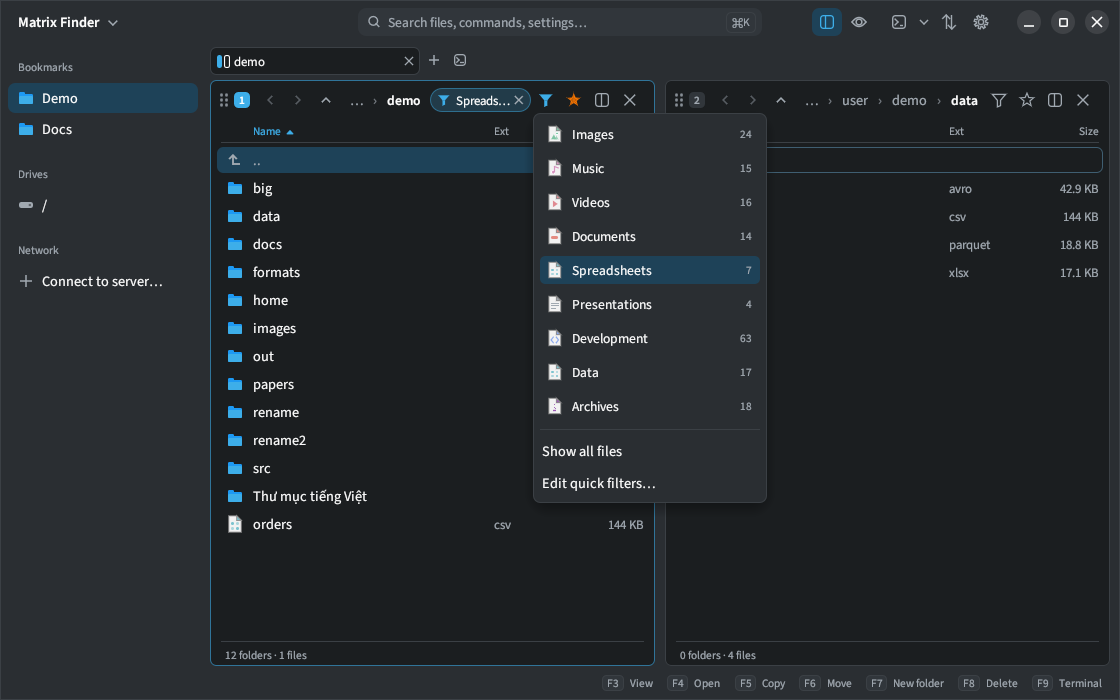
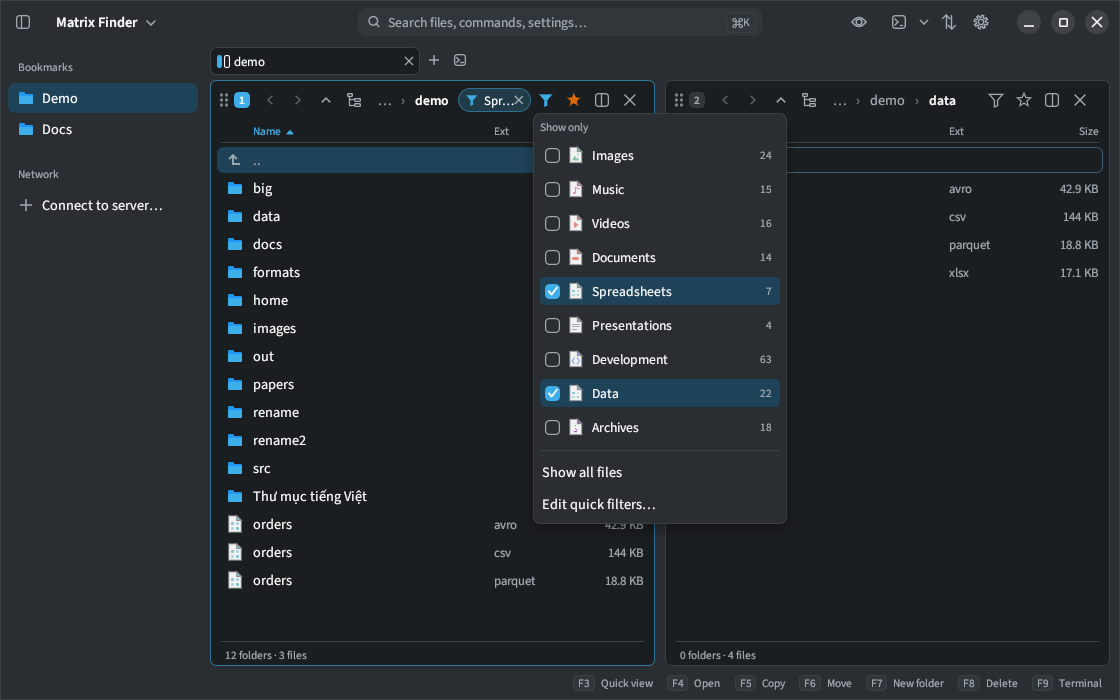
docs(readme): cover the 0.7.0 features and add a privacy section
Drives and eject, folder fields and the folder tree, the Compress
dialog, Tasks, tool tabs, multi-select quick filters, F3 / F4, and a
Privacy section: no data is collected and no telemetry is sent.
Screenshots re-rendered for the changed views.

diff --git a/README.md b/README.md
@@ -14,11 +14,13 @@ Easy to start with, and it has power-user features in the Total Commander tradit
 [![Platforms](https://img.shields.io/badge/platform-macOS%20%7C%20Windows%20%7C%20Linux-2ea44f)](#build)
 [![License: MIT](https://img.shields.io/badge/license-MIT-blue)](#license)
 [![Languages](https://img.shields.io/badge/i18n-English%20%7C%20Ti%E1%BA%BFng%20Vi%E1%BB%87t-ff69b4)](#settings)
+[![No telemetry](https://img.shields.io/badge/telemetry-none-success)](#privacy)
 
 [**Features**](#features) ·
 [**Screenshots**](#screenshots) ·
 [**Shortcuts**](#shortcuts) ·
 [**Build**](#build) ·
+[**Privacy**](#privacy) ·
 [**Project layout**](#layout)
 
 <br>
@@ -104,7 +106,7 @@ Previews for PDF, Jupyter notebooks, images, SVG, Markdown, code in ~60 language
 | 🚪 **Quit confirmation** | Quitting while jobs are running or queued asks first: keep transferring, or stop them and quit |
 | 🔑 **SFTP host key check** | Servers are verified before any password or key is used. A new server shows its fingerprint for you to trust, and a changed key is refused |
 | 🛟 **Safer copies and moves** | An existing file is only replaced once the new copy is complete. Moves with *Skip* keep the files they skipped, and copying out of an archive follows your *If file exists* choice |
-| 🔐 **Checksum window** | <kbd>Ctrl</kbd>+<kbd>Shift</kbd>+<kbd>H</kbd>, or right-click → *More* → *Checksum…*. Hash files in the background, compare with a pasted value (the algorithm is picked from its length), save checksum files and verify existing ones |
+| 🔐 **Checksums** | <kbd>Ctrl</kbd>+<kbd>Shift</kbd>+<kbd>H</kbd>, or right-click → *More* → *Checksum…*, opens in a tab of its own. Hash files in the background, compare with a pasted value (the algorithm is picked from its length), save checksum files and verify existing ones |
 | ➕ **Right-click → New** | A *New ▸ Folder… / Blank file…* submenu in every context menu: on a file, on the `..` row and on empty space |
 | 🎨 **Breeze Light by default** | Breeze Light is the default theme for the app, and Breeze Dark for built-in terminal profiles |
 | 🏠 **Starts at Home** | The app opens your home folder with no terminal running. To restore the last session instead, turn off *Settings → Files & layout → Open the home folder at start* |
@@ -116,7 +118,7 @@ Previews for PDF, Jupyter notebooks, images, SVG, Markdown, code in ~60 language
 | 🔤 **Fonts** | *Settings → Fonts*: pick the font and size of the interface and of the terminal, from the bundled fonts or anything installed |
 
 <div align="center">
-<picture><source media="(prefers-color-scheme: dark)" srcset="docs/dark/checksum.png"><img src="docs/light/checksum.png" width="49%" alt="Checksum window comparing a pasted SHA-256"></picture>
+<picture><source media="(prefers-color-scheme: dark)" srcset="docs/dark/checksum.png"><img src="docs/light/checksum.png" width="49%" alt="Checksum tab comparing a pasted SHA-256"></picture>
 <picture><source media="(prefers-color-scheme: dark)" srcset="docs/dark/checksum-verify.png"><img src="docs/light/checksum-verify.png" width="49%" alt="Verifying a SHA256SUMS file"></picture>
 <br>
 <picture><source media="(prefers-color-scheme: dark)" srcset="docs/dark/new-menu.png"><img src="docs/light/new-menu.png" width="49%" alt="Right-click New submenu"></picture>
@@ -130,7 +132,11 @@ Previews for PDF, Jupyter notebooks, images, SVG, Markdown, code in ~60 language
 <details open>
 <summary><b>🖥 Interface and window</b></summary>
 
-- **Clean, minimal layout** in the Finder / Nautilus style. A full-height sidebar holds the app menu, bookmarks (or put them in a bar above the tabs), drives and network connections. There is a single toolbar, rounded panel cards and a clickable breadcrumb path (click the empty area or press <kbd>Ctrl</kbd>+<kbd>L</kbd> to type a path). File icons are vector drawings coloured by type, and a slim status bar shows clickable key hints.
+- **Clean, minimal layout** in the Finder / Nautilus style. A full-height sidebar holds the app menu (the button just before it, or *View → Sidebar* in that menu, hides and shows the sidebar), bookmarks (or put them in a bar above the tabs), drives and network connections. There is a single toolbar, rounded panel cards and a clickable breadcrumb path (click the empty area or press <kbd>Ctrl</kbd>+<kbd>L</kbd> to type a path). File icons are vector drawings coloured by type, and a slim status bar shows clickable key hints.
+- **Address suggestions**: while you type a path, the folders and archives that match appear below the address bar, names that start with what you typed first. <kbd>↑</kbd> <kbd>↓</kbd> pick one and <kbd>Enter</kbd> opens it, a click opens it too, and <kbd>Tab</kbd> completes the name (or as much as the matches share) so you can go on typing inside it. `~/` works, a name on its own is looked up in the window's folder, and hidden folders show up when hidden files are shown or once you type a dot.
+- **Folder tree**: the tree button at the start of the address bar opens a small tree of your home folder and drives, already open down to the current folder. A chevron opens or closes a folder (read in the background, so a slow drive never holds up the window). A click chooses a folder (or <kbd>↑</kbd> <kbd>↓</kbd>, with <kbd>←</kbd> <kbd>→</kbd> to close and open), and **OK**, <kbd>Enter</kbd> or a double click goes there. **Cancel**, <kbd>Esc</kbd> or a click elsewhere closes it.
+- **Folder fields**: every field that takes a folder suggests folders as you type, like the address bar, and has the folder tree button beside it: *To* in Copy / Move (<kbd>F5</kbd> / <kbd>F6</kbd>), *Save to* in Compress, *Extract to*, the backup's sources, destination and *Restore to*, and the bookmarks' locations. <kbd>↑</kbd> <kbd>↓</kbd> and <kbd>Enter</kbd> or a click fill a suggestion in and list the folders inside it, <kbd>Tab</kbd> completes, and <kbd>Esc</kbd> closes the list without closing the dialog; <kbd>Enter</kbd> with no suggestion chosen confirms the dialog.
+- **Drives** in the sidebar go by their names (*Macintosh HD*, *KINGSTON*, *Windows (C:)*; hover for the path), without the system's own mounts such as macOS's Data volume. The section shows only when there is more than one drive; *Settings → Files & layout → Drives in the sidebar* shows it always or never. The list follows the system: a drive that is plugged in, ejected or unmounted elsewhere appears or leaves within a couple of seconds, and a window showing a drive that went away goes to your home folder. External, network and disk image volumes have an **eject** button (also in their right-click menu). It runs in the background (`diskutil` on macOS; `gio`, `udisksctl` or `umount` on Linux; Explorer's Eject on Windows). While a task uses the drive, ejecting is refused; if a program still has files open there, the message names it.
 - **Native window chrome**: the title bar is part of the toolbar and uses the platform's own window buttons.
   - macOS keeps its real traffic lights in a 52 pt unified title bar.
   - Windows gets Windows 11 caption buttons.
@@ -144,14 +150,15 @@ Previews for PDF, Jupyter notebooks, images, SVG, Markdown, code in ~60 language
   - **Merging tabs**: drag a tab onto a window's edge to merge the two tabs, or use the tab menu's *Show beside the current tab*. The palette's *Move window to new tab* splits a window back out.
   - <kbd>Ctrl</kbd>+<kbd>W</kbd> closes the focused window, and closes the tab when it has only one window. <kbd>Ctrl</kbd>+<kbd>Shift</kbd>+<kbd>X</kbd> closes the whole tab, all its windows included.
   - **Settings** (<kbd>Ctrl</kbd>+<kbd>,</kbd> or the ⚙ button) opens in a tab of its own, not a separate window. Opening it again switches to that tab.
-  - **Transfers** (<kbd>Ctrl</kbd>+<kbd>J</kbd> or the ⇅ button) works the same way.
+  - **Tasks** (<kbd>Ctrl</kbd>+<kbd>J</kbd> or the ⇅ button) works the same way.
+  - **Checksum** and **Batch rename** open in a new tab next to the current one, each time, so several can run side by side. Closing the tab stops what it is still hashing.
 - **Tabs & tab groups**: you can reorder, pin, rename and duplicate tabs (a split tab is duplicated with all its windows), use *close others / close to the right*, and **reopen closed tabs** (<kbd>Ctrl</kbd>+<kbd>Shift</kbd>+<kbd>T</kbd>). Groups have names and 9 colours and can be collapsed. Split tabs and their layout are restored with the session.
 - **Startup**: the app opens in your **home folder** with no terminal open. Turn off *Open the home folder at start* to restore the tabs and groups of the last session instead.
 
 </details>
 
 <details>
-<summary><b>📁 Files, drag & drop and transfers</b></summary>
+<summary><b>📁 Files, drag & drop and tasks</b></summary>
 
 - **Right-click → New ▸ Folder… / Blank file…** (<kbd>F7</kbd> / <kbd>Shift</kbd>+<kbd>F4</kbd>).
 - **Drag & drop**: drop files on the other panel, a folder row, the `..` row, a breadcrumb segment, a bookmark or a drive.
@@ -159,7 +166,7 @@ Previews for PDF, Jupyter notebooks, images, SVG, Markdown, code in ~60 language
   - Hold <kbd>Shift</kbd> to move instead of copy, and press <kbd>Esc</kbd> to cancel.
   - Hovering over a folder opens it (spring-loaded folders), and the list scrolls when you drag near its edges.
   - Files dragged in from the OS land in the panel under the pointer.
-- **Transfer manager** (<kbd>Ctrl</kbd>+<kbd>J</kbd>): every copy, move, delete, compress, extract and backup runs in the background, and you keep browsing. It opens in a tab when you ask for it, never by itself.
+- **Tasks** (<kbd>Ctrl</kbd>+<kbd>J</kbd>, formerly *Transfers*): every copy, move, delete, compress, extract and backup runs in the background, and you keep browsing. It opens in a tab when you ask for it, never by itself; the status bar shows the running task with its progress bar meanwhile.
   - The toolbar button turns into a **circular progress indicator** showing how far the running jobs are together, with a count when there are several.
   - Each job shows progress, speed and time left, with **pause / resume / cancel**.
   - Jobs wait in a **queue**, and you choose how many run at once.
@@ -168,11 +175,11 @@ Previews for PDF, Jupyter notebooks, images, SVG, Markdown, code in ~60 language
 - **If a file already exists**, a copy or move can keep both, overwrite or skip.
   - A move only deletes each source file once it has been copied, so skipped files stay where they were.
   - A cancelled or failed copy to a local folder never leaves a half-written file behind, and an existing file stays intact until the new copy is complete. An interrupted upload can still leave a partial file on the server.
-- **Batch rename** (<kbd>Ctrl</kbd>+<kbd>M</kbd>):
+- **Batch rename** (<kbd>Ctrl</kbd>+<kbd>M</kbd>, in a tab of its own):
   - Name masks with the tokens `[N]` `[N2-5]` `[E]` `[C]` `[D]` `[T]` `[Y]` `[M]` `[d]` `[P]`.
   - Find & replace (plain text or regex with `$1` groups), letter case, **Vietnamese diacritics removal** and a slug mode.
   - A live preview flags conflicts, swaps such as a↔b are safe, and the last batch can be undone.
-- **Open with**: <kbd>Enter</kbd> / <kbd>F4</kbd> opens a file with the OS default app, *Open with…* picks any program, and *Show in file manager* reveals it. Remote and in-archive files are fetched to a temp folder first.
+- **Open with**: <kbd>Enter</kbd> / <kbd>F4</kbd> opens a file with the OS default app (<kbd>F4</kbd> on a folder opens it right here, as <kbd>Enter</kbd> does), *Open with…* picks any program, and *Show in file manager* reveals it. Remote and in-archive files are fetched to a temp folder first.
 - **Bookmarks** (<kbd>Ctrl</kbd>+<kbd>D</kbd>): Home, Desktop, Documents, Downloads, Music, Pictures and Movies are bookmarked by default.
   - **Two display modes**: a **vertical bar** in the sidebar (the default), or a **horizontal bar** above the tabs, like a browser's bookmarks bar. Bookmarks that don't fit in the horizontal bar go into a **»** menu.
   - **In a terminal**: choose in Settings → Bookmarks whether a bookmark always opens in a file window (**Go to file only**) or, when a terminal is focused, runs `cd` to the folder in its shell (**File and Terminal**, the default).
@@ -226,6 +233,9 @@ Previews for PDF, Jupyter notebooks, images, SVG, Markdown, code in ~60 language
   - Copying files out of an archive follows the *If file exists* choice. The Extract dialog and backup restore overwrite existing files, except that a single-file archive such as `report.txt.gz` never replaces a file beside it.
   - A crafted tar archive can't write outside the destination folder through symbolic or hard links.
 - **Create** zip, **7z** (LZMA2), tar, tar.gz, tar.xz, **tar.zst** (multithreaded), tar.bz2 and single-file gz/xz/zst/bz2. RAR archives can be created when the `rar` command-line tool is installed.
+  - The **Compress** dialog (<kbd>Alt</kbd>+<kbd>F5</kbd>) shows the formats as buttons, with a line on what the one chosen is good for. The single-file formats are offered only for one file, and typing a format at the end of the name (`photos.7z`) chooses it.
+  - A *Faster ↔ Smaller* slider sets the level (plain .tar has none). The file it will make is shown before it is made, with a warning when one with that name is there already.
+  - Large archives are made in the background: the progress bar is in the status bar and in **Tasks**, where they can be paused.
 - **Protocols**: the local disk, **SFTP** (password, private key or SSH agent) and **FTP**, with saved connection profiles.
   - **SFTP host keys** are checked before any password or key is used, against `~/.ssh/known_hosts` and the app's own `known_hosts` file in its settings folder.
   - A server not listed in either shows its SHA-256 fingerprint and connects only if you choose to trust it. Trusted keys go in the app's file, and `~/.ssh` is never changed.
@@ -245,7 +255,7 @@ Previews for PDF, Jupyter notebooks, images, SVG, Markdown, code in ~60 language
 <details>
 <summary><b>👁 Preview and 🔎 search</b></summary>
 
-- **Quick View** (<kbd>Ctrl</kbd>+<kbd>Q</kbd>) or the viewer window (<kbd>F3</kbd>) shows:
+- **Quick View** (<kbd>F3</kbd> shows and hides it; also <kbd>Ctrl</kbd>+<kbd>Q</kbd>) or the viewer window (<kbd>Shift</kbd>+<kbd>F3</kbd>) shows:
   - **PDF**
   - **Jupyter notebooks**
   - images: PNG, JPEG, GIF, WebP, BMP, ICO and TIFF, with animated GIF and WebP playing
@@ -271,9 +281,9 @@ Previews for PDF, Jupyter notebooks, images, SVG, Markdown, code in ~60 language
 
   Files past a size limit are not opened at all, and show a small *Too large to preview* message: 80 MB for images, PDF, notebooks, fonts, certificates and RTF, 256 MB for `.xls`, `.xlsb` and `.ods`, 768 MB for 3D models, and 1 GB for everything else. Local safetensors, ONNX and `.npz` files have no limit, since only their headers are read. On a server or inside an archive, only text is previewed past what can be fetched (16 MB and 80 MB).
 - **Search & filter**: one box for files and commands. Start typing in a file window to open it with what you typed, or press <kbd>Ctrl</kbd>+<kbd>F</kbd>. As you type, the active panel is filtered live; <kbd>Enter</kbd> keeps the filter and <kbd>Esc</kbd> closes the box and shows the whole folder again. <kbd>↓</kbd> <kbd>Enter</kbd> searches all subfolders instead. Queries can be plain text, globs, extension lists or an **SQL-like WHERE clause** (see [Quick filter syntax](#filter)).
-- **Quick filters by file type**: the **funnel** button of a file window opens a menu of categories that shows only that kind of file. The built-in categories are Images, Music, Videos, Documents, Spreadsheets, Presentations, Development, Data and Archives, each with its common formats.
+- **Quick filters by file type**: the **funnel** button of a file window opens a menu of categories with tick boxes: tick one or several (say *Images* and *Videos*) to show only those kinds of file. The menu stays open while you tick, and the chip in the address bar names what is shown. The built-in categories are Images, Music, Videos, Documents, Spreadsheets, Presentations, Development, Data and Archives, each with its common formats.
   - **While filtering**: folders stay visible, and the filter stays on while you browse into other folders. It works together with the text filter. Click the chip in the address bar or press <kbd>Esc</kbd> to turn it off.
-  - **Editing**: in *Settings → Quick filters* you can add, rename, reorder and remove categories, edit their extension lists, or restore the built-in ones. The palette lists every category too.
+  - **Your own lists**: in *Settings → Quick filters* (or *Edit quick filters…* at the bottom of the menu) you can add your own categories, rename, reorder and remove them, edit their extension lists, or restore the built-in ones. The palette lists every category too, and ticks or unticks it.
 
 </details>
 
@@ -335,11 +345,11 @@ The images follow your light or dark GitHub theme. Both sets are in [`docs/light
 </tr>
 <tr>
 <td><picture><source media="(prefers-color-scheme: dark)" srcset="docs/dark/disk-usage.png"><img src="docs/light/disk-usage.png" alt="Disk usage treemap"></picture></td>
-<td><picture><source media="(prefers-color-scheme: dark)" srcset="docs/dark/transfers.png"><img src="docs/light/transfers.png" alt="Transfer manager"></picture></td>
+<td><picture><source media="(prefers-color-scheme: dark)" srcset="docs/dark/transfers.png"><img src="docs/light/transfers.png" alt="Tasks"></picture></td>
 </tr>
 <tr>
 <td align="center"><sub>Disk usage treemap</sub></td>
-<td align="center"><sub>Transfer manager with a queue</sub></td>
+<td align="center"><sub>Tasks with a queue</sub></td>
 </tr>
 <tr>
 <td><picture><source media="(prefers-color-scheme: dark)" srcset="docs/dark/batch-rename.png"><img src="docs/light/batch-rename.png" alt="Batch rename"></picture></td>
@@ -358,7 +368,7 @@ The images follow your light or dark GitHub theme. Both sets are in [`docs/light
 <td align="center"><sub>Terminal profiles in Settings</sub></td>
 </tr>
 <tr>
-<td><picture><source media="(prefers-color-scheme: dark)" srcset="docs/dark/quick-filter.png"><img src="docs/light/quick-filter.png" alt="Quick filter menu with file categories"></picture></td>
+<td><picture><source media="(prefers-color-scheme: dark)" srcset="docs/dark/quick-filter.png"><img src="docs/light/quick-filter.png" alt="Quick filter menu with two file categories ticked"></picture></td>
 <td><picture><source media="(prefers-color-scheme: dark)" srcset="docs/dark/disk-usage-table.png"><img src="docs/light/disk-usage-table.png" alt="Disk usage as a table"></picture></td>
 </tr>
 <tr>
@@ -449,13 +459,13 @@ NOT name LIKE '.%' OR (ext = 'md' AND size < 4KB)
 | Key | Action | Key | Action |
 |---|---|---|---|
 | <kbd>Tab</kbd> | switch panel | <kbd>F2</kbd> / <kbd>Shift</kbd>+<kbd>F6</kbd> | rename |
-| <kbd>Enter</kbd> | open folder / archive / file | <kbd>F3</kbd> | viewer |
-| <kbd>Backspace</kbd> | parent folder | <kbd>F4</kbd> | open with default app |
+| <kbd>Enter</kbd> | open folder / archive / file | <kbd>F3</kbd> | quick-view panel on / off |
+| <kbd>Backspace</kbd> | parent folder | <kbd>F4</kbd> | open: a folder here, a file with its default app |
 | <kbd>Space</kbd> / <kbd>Insert</kbd> | select | <kbd>Shift</kbd>+<kbd>F4</kbd> | new blank file |
 | <kbd>Shift</kbd>+<kbd>↑↓</kbd> | extend selection | <kbd>F5</kbd> / <kbd>F6</kbd> | copy / move to other panel |
 | <kbd>Ctrl</kbd>+<kbd>A</kbd> / <kbd>Ctrl</kbd>+<kbd>I</kbd> | select all / invert | <kbd>F7</kbd> | new folder |
 | <kbd>Alt</kbd>+<kbd>←</kbd> / <kbd>→</kbd> | back / forward | <kbd>F8</kbd>, <kbd>Del</kbd> | delete (<kbd>Shift</kbd> = permanently) |
-| <kbd>Ctrl</kbd>+<kbd>Q</kbd> | quick-view panel | <kbd>F9</kbd> | terminal here |
+| <kbd>Shift</kbd>+<kbd>F3</kbd> | viewer window | <kbd>F9</kbd> | terminal here |
 | <kbd>Ctrl</kbd>+<kbd>T</kbd> | new tab | <kbd>Alt</kbd>+<kbd>F5</kbd> / <kbd>Alt</kbd>+<kbd>F9</kbd> | compress / extract |
 | <kbd>Ctrl</kbd>+<kbd>Shift</kbd>+<kbd>T</kbd> | reopen closed tab | <kbd>Ctrl</kbd>+<kbd>`</kbd> | new terminal tab |
 | <kbd>Ctrl</kbd>+<kbd>Tab</kbd>, <kbd>Ctrl</kbd>+<kbd>PgUp</kbd> / <kbd>PgDn</kbd> | next / previous tab | <kbd>Ctrl</kbd>+<kbd>Shift</kbd>+<kbd>PgUp</kbd> / <kbd>PgDn</kbd> | move tab |
@@ -467,7 +477,7 @@ NOT name LIKE '.%' OR (ext = 'md' AND size < 4KB)
 | <kbd>Ctrl</kbd>+<kbd>H</kbd> | hidden files | <kbd>Ctrl</kbd>+<kbd>U</kbd> | swap panels |
 | <kbd>Ctrl</kbd>+<kbd>D</kbd> | bookmark folder | <kbd>Ctrl</kbd>+<kbd>N</kbd> | connect to server |
 | <kbd>Ctrl</kbd>+<kbd>B</kbd> | backup | <kbd>Ctrl</kbd>+<kbd>,</kbd> | settings |
-| <kbd>Ctrl</kbd>+<kbd>J</kbd> | transfer manager | <kbd>Ctrl</kbd>+<kbd>M</kbd> | batch rename |
+| <kbd>Ctrl</kbd>+<kbd>J</kbd> | tasks | <kbd>Ctrl</kbd>+<kbd>M</kbd> | batch rename |
 | <kbd>Ctrl</kbd>+<kbd>K</kbd> | command palette | <kbd>Ctrl</kbd>+<kbd>\\</kbd> | toggle sidebar |
 | <kbd>Ctrl</kbd>+<kbd>Shift</kbd>+<kbd>H</kbd> | **checksum (create / verify)** | <kbd>F1</kbd> | all shortcuts |
 
@@ -590,6 +600,12 @@ MATRIX_FINDER_TEST_SFTP=host:22:user:/path/to/private_key cargo test live_sftp -
   ```
 - **Passwords** for saved connections are stored only if you tick *Also save the password*, and they are stored in plain text. Prefer SSH keys or the SSH agent.
 
+<a id="privacy"></a>
+
+## 🔒 Privacy
+
+Matrix Finder collects no data and sends no telemetry: no analytics, no crash reports, no update checks. It goes online only when you ask it to, by connecting to an FTP or SFTP server or clicking a link (which opens in your browser). It also listens on a local port so a second launch can open in the running window. That port is on `localhost` only and is never reachable from the network.
+
 <a id="layout"></a>
 
 ## 🧭 Project layout
@@ -599,17 +615,21 @@ src/
 ├── main.rs        entry point (window icon)
 ├── app.rs         main window, menus, keyboard, dialogs, jobs
 ├── pane.rs        a window: file view (breadcrumb, listing, sort, filter, selection, context menus) or terminal
+├── completion.rs  folder suggestions for the address bar and folder fields
+├── foldertree.rs  the folder tree popup, with OK / Cancel and arrow keys
+├── pathfield.rs   a folder field with suggestions and the folder tree button
 ├── layout.rs      tiling split tree of a tab's windows (split, dock, detach, dividers)
 ├── tabs.rs        the tab bar: tabs holding windows, tab groups, drag & drop of tabs and windows
 ├── palette.rs     command palette (Ctrl+K) with fuzzy search
 ├── checksum.rs    CRC32 / MD5 / SHA-1 / SHA-256 / SHA-512 / BLAKE3, compare, save and verify lists
 ├── terminal.rs    terminal profiles (terminal + shell + startup script + colour theme), open-with
 ├── termview.rs    built-in terminal widget (alacritty_terminal)
-├── vfs.rs         entries, locations (local / remote / archive), drives
+├── vfs.rs         entries, locations (local / remote / archive), free space
+├── drives.rs      mounted drives, a watcher that keeps them current, eject
 ├── remote.rs      FTP (suppaftp) and SFTP (ssh2) back-ends
 ├── archive.rs     list / extract / create for all archive formats
 ├── ops.rs         background copy/move/delete with progress, pause, queue and cancel
-├── rename.rs      batch rename rules, validation, safe apply/undo and its window
+├── rename.rs      batch rename rules, validation, safe apply/undo and its tab
 ├── filter.rs      quick filter + SQL-like expression parser
 ├── preview.rs     image / SVG / Markdown / code / text / hex / table previews
 ├── docview.rs     PDF (hayro) and Jupyter notebook previews
